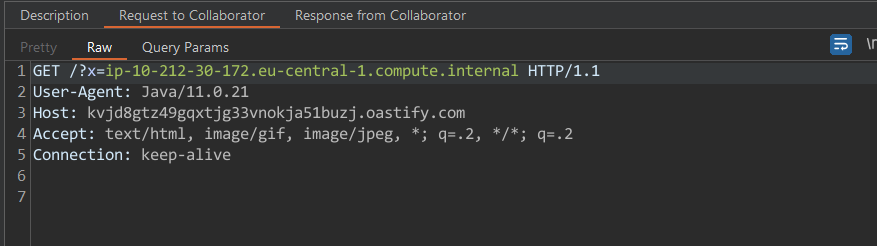
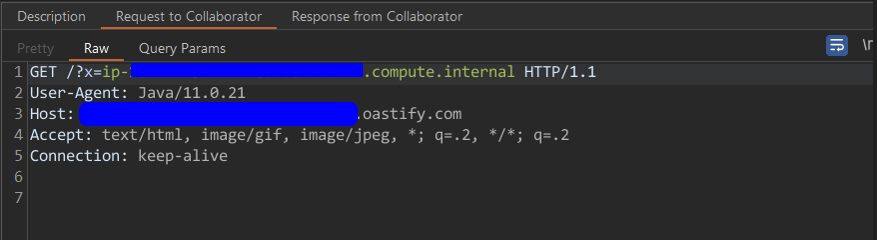
as

diff --git a/src/pages/blog/xxe-oob-via-a-pdf-upload.md b/src/pages/blog/xxe-oob-via-a-pdf-upload.md
@@ -122,3 +122,12 @@ Alright, with the process steps out of the way, the 1st. payload was inserted on
 <img src="/xx.png" alt="pdf metadata" width="800" height="300" />
 FUUUUUUUUUUUUUUUUUUUUUUUUUUUUUUUUUUUUUUUUUUUUUUUU!!
 <img src="/ohMOD.gif" alt="pdf metadata" width="800" height="300" />
+
+
+And just like that I was successfully exfiltrated and internal filesystem from the AWS instance. Great, let's try something more sensitive `/etc/passwd`:
+
+NADA... I tried with different files but still nothing was return to my collaborator instance... OK, until this point I'd read a ton of writeups about XXE on Java applications and I knew I was facing the line termination (multiline files) restriction, so only single line files could be read out.
+
+Time to pull out the FTP trick to exfil mutiline files (thanks to Novikov). I found a [script](https://github.com/lc/230-OOB/blob/master/230.py) created by (Corben Leo)[https://x.com/hacker_] that emulates an FTP server for OOB attacks.
+
+After having a lot of issues setting up the server on my VPS, I finally was able to do it and repeated all the exploitation steps, which lead me to... nada land, again. 
